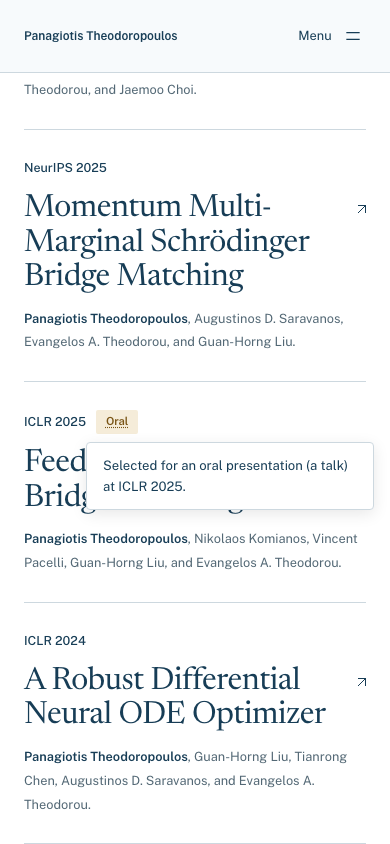
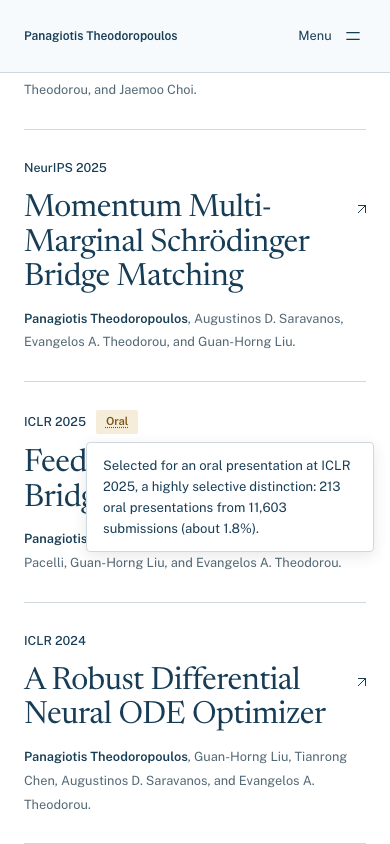
Clarify selectivity of ICLR oral presentations

Changed region(s): [[0.2154, 0.5237, 0.9231, 0.6469]]

diff --git a/dist/client/index.html b/dist/client/index.html
@@ -333,7 +333,7 @@
           </article>
 
           <article class="publication">
-            <p class="publication-venue">ICLR 2025 <button class="oral-badge" type="button" aria-describedby="oral-explanation" title="Selected for an oral presentation (a talk) at ICLR 2025.">Oral</button></p>
+            <p class="publication-venue">ICLR 2025 <button class="oral-badge" type="button" aria-describedby="oral-explanation" title="Selected for an oral presentation at ICLR 2025, a highly selective distinction: 213 oral presentations from 11,603 submissions (about 1.8%).">Oral</button></p>
             <h3><a href="https://arxiv.org/abs/2410.14055" target="_blank" rel="noopener noreferrer">Feedback Schrödinger Bridge Matching</a></h3>
             <p><strong>Panagiotis Theodoropoulos</strong>, Nikolaos Komianos, Vincent Pacelli, Guan-Horng Liu, and Evangelos A. Theodorou.</p>
           </article>
@@ -436,6 +436,6 @@
     </div>
   </footer>
 
-  <div id="oral-explanation" class="oral-tooltip" role="tooltip" hidden>Selected for an oral presentation (a talk) at ICLR 2025.</div>
+  <div id="oral-explanation" class="oral-tooltip" role="tooltip" hidden>Selected for an oral presentation at ICLR 2025, a highly selective distinction: 213 oral presentations from 11,603 submissions (about 1.8%).</div>
 </body>
 </html>

diff --git a/index.html b/index.html
@@ -333,7 +333,7 @@
           </article>
 
           <article class="publication">
-            <p class="publication-venue">ICLR 2025 <button class="oral-badge" type="button" aria-describedby="oral-explanation" title="Selected for an oral presentation (a talk) at ICLR 2025.">Oral</button></p>
+            <p class="publication-venue">ICLR 2025 <button class="oral-badge" type="button" aria-describedby="oral-explanation" title="Selected for an oral presentation at ICLR 2025, a highly selective distinction: 213 oral presentations from 11,603 submissions (about 1.8%).">Oral</button></p>
             <h3><a href="https://arxiv.org/abs/2410.14055" target="_blank" rel="noopener noreferrer">Feedback Schrödinger Bridge Matching</a></h3>
             <p><strong>Panagiotis Theodoropoulos</strong>, Nikolaos Komianos, Vincent Pacelli, Guan-Horng Liu, and Evangelos A. Theodorou.</p>
           </article>
@@ -436,6 +436,6 @@
     </div>
   </footer>
 
-  <div id="oral-explanation" class="oral-tooltip" role="tooltip" hidden>Selected for an oral presentation (a talk) at ICLR 2025.</div>
+  <div id="oral-explanation" class="oral-tooltip" role="tooltip" hidden>Selected for an oral presentation at ICLR 2025, a highly selective distinction: 213 oral presentations from 11,603 submissions (about 1.8%).</div>
 </body>
 </html>

diff --git a/tests/portfolio.spec.js b/tests/portfolio.spec.js
@@ -192,7 +192,7 @@ test('oral explanation supports hover, keyboard, touch and dismissal', async ({ 
   const oral = page.getByRole('button', { name: 'Oral', exact: true });
   const tooltip = page.getByRole('tooltip');
   await oral.scrollIntoViewIfNeeded();
-  await expect(oral).toHaveAccessibleDescription('Selected for an oral presentation (a talk) at ICLR 2025.');
+  await expect(oral).toHaveAccessibleDescription('Selected for an oral presentation at ICLR 2025, a highly selective distinction: 213 oral presentations from 11,603 submissions (about 1.8%).');
   await expect(oral).toHaveCSS('cursor', 'help');
   if (isMobile) {
     await oral.tap();

diff --git a/README.md b/README.md
@@ -54,7 +54,7 @@ npm test
 
 The 39 Playwright checks cover desktop Chromium, mobile Chromium and iPhone WebKit emulation. They verify content preservation, metadata, original asset hashes, resource loading, anchor destinations, current navigation state, keyboard focus, menu dismissal, and the CV download. Discovery checks compare structured data with visible publications, verify social image dimensions, and follow the sitemap to working resources with JavaScript disabled. Axe checks cover light and dark modes, including the expanded mobile menu.
 
-Focus-grid checks verify column alignment when terms wrap. The Oral badge explains the presentation format on hover, keyboard focus or tap; Escape and outside taps dismiss it. Interaction checks cover Chromium and WebKit. Reflow checks cover widths from 320 to 1920 pixels and doubled text size. The site also works with JavaScript disabled and web fonts blocked. Motion respects the system preference. Desktop, tablet, mobile, dark mode and mobile navigation were visually inspected; the browser's accessibility tree exposes the menu name and expanded state.
+Focus-grid checks verify column alignment when terms wrap. The Oral badge explains the presentation format and its selectivity on hover, keyboard focus or tap; Escape and outside taps dismiss it. Interaction checks cover Chromium and WebKit. Reflow checks cover widths from 320 to 1920 pixels and doubled text size. The site also works with JavaScript disabled and web fonts blocked. Motion respects the system preference. Desktop, tablet, mobile, dark mode and mobile navigation were visually inspected; the browser's accessibility tree exposes the menu name and expanded state.
 
 Local Lighthouse 13.5.0 audits on 14 October 2026, before the search metadata and discovery files were added:
 
@@ -70,3 +70,5 @@ Local Lighthouse 13.5.0 audits on 14 October 2026, before the search metadata an
 These are local lab measurements, not production field results. No actionable accessibility findings remain in the inspected coverage. Physical-device testing and a spoken VoiceOver/NVDA session were not performed. External destinations are preserved exactly; third-party site availability is outside this change.
 
 Screenshots: [desktop](review/desktop.png), [mobile](review/mobile.png), [tablet](review/tablet.png), [dark mode](review/dark.png), [mobile menu](review/mobile-menu.png), [oral explanation](review/oral-tooltip.png). Machine-readable results are in [verification.json](review/verification.json).
+
+The Oral explanation uses the [official ICLR 2025 fact sheet](https://media.iclr.cc/Conferences/ICLR2025/ICLR2025_Fact_Sheet.pdf): 213 oral presentations from 11,603 submissions, approximately 1.8%.
